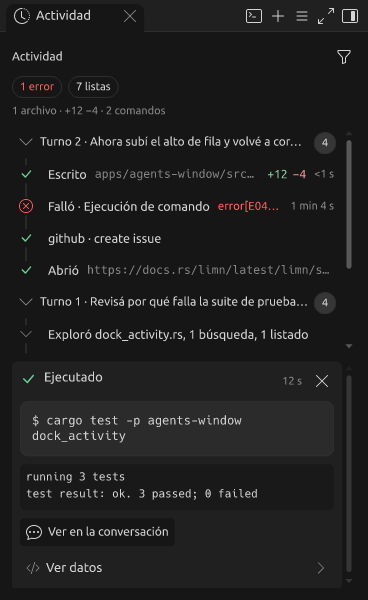
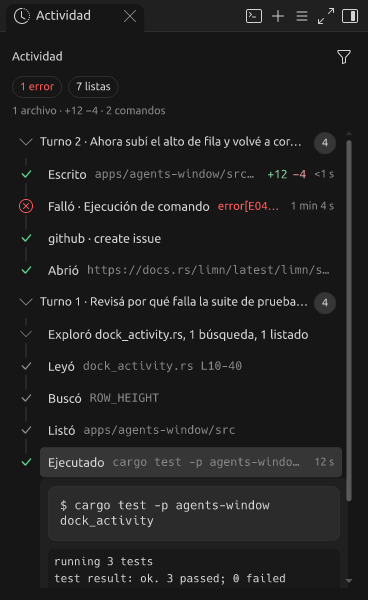
limn v0.1.31: a call's detail opens under its own line in the Activity log
The selected call's detail opens under its line on the library's spring and
closes there, with the rail running on beside it; the line is its heading,
and choosing it again closes it. The log stays virtual. A call the log does
not list keeps its detail under the log, with its own heading.

diff --git a/apps/agents-window/src/dock_activity.rs b/apps/agents-window/src/dock_activity.rs
@@ -131,6 +131,8 @@ pub(crate) struct ActivityUi {
     pub grants_open: bool,
     /// The call just jumped to in the transcript, highlighted for a moment.
     pub revealed: Option<(String, std::time::Instant)>,
+    /// The call whose detail was just closed: it closes under its line.
+    pub closing: Option<String>,
 }
 
 /// Apply the part of a `dock_activity:` action after its prefix. Returns
@@ -171,7 +173,7 @@ pub(crate) fn apply_action(state: &mut ViewState, action: &str) -> Option<String
             }
         }
         ("grants", _) => ui.grants_open = !ui.grants_open,
-        ("close", _) => state.selected_tool_id = None,
+        ("close", _) => ui.closing = state.selected_tool_id.take(),
         ("data", _) => ui.data_open = !ui.data_open,
         ("copy", _) => {
             let selected = state.selected_tool_id.as_deref()?;
@@ -383,6 +385,22 @@ fn rail(node: Element, above: bool, below: bool) -> Element {
     ])
     .gap(2.0)
     .size(Some(RAIL), Some(ROW_HEIGHT))
+}
+
+/// The rail beside what a line opened under itself: the line alone, on to
+/// the next node, or nothing where the turn ends.
+fn rail_through(shown: bool) -> Element {
+    let ink = theme::FOREGROUND_SUBTLE;
+    Element::row(vec![
+        Element::spacer().flex(1.0),
+        Element::spacer().size(Some(1.0), None).background(if shown {
+            Color::rgba(ink.r, ink.g, ink.b, ink.a / 3)
+        } else {
+            Color::TRANSPARENT
+        }),
+        Element::spacer().flex(1.0),
+    ])
+    .size(Some(RAIL), None)
 }
 
 /// One line of the timeline: its node on the rail and, beside it, what it
@@ -921,13 +939,48 @@ pub(super) fn content(state: &ViewState, width: f32, height: f32) -> Element {
     running_strip(&mut head, state, &live, &started, width);
     let rows = log_rows(state, &turns, selected, &started);
     let count = rows.len();
+    // The selected call's detail opens under its own line, and the one just
+    // closed closes there. A call the log does not list (a folded turn, a
+    // filter) shows its detail under the log instead.
+    let line = |id: &str| {
+        rows.iter().enumerate().find_map(|(position, row)| match row {
+            Row::Call { row, last, .. } if row.id == id => Some((position, *last)),
+            _ => None,
+        })
+    };
+    let opened = match (selected, state.selected_tool_id.as_deref()) {
+        (Some(index), Some(id)) => line(id).map(|at| (at, id, Some(index))),
+        _ => ui.closing.as_deref().and_then(|id| Some((line(id)?, id, None))),
+    };
+    let selected = selected.filter(|_| opened.is_none());
     if count > 0 {
-        let list =
+        let mut list =
             ScrollArea::uniform_list("dock_activity_tools", count, ROW_HEIGHT, move |index| {
                 log_row(&rows[index], width)
-            })
-            .render()
-            .top_fade(theme::BACKGROUND, 12.0);
+            });
+        if let Some(((position, last), id, index)) = opened {
+            let inner = (width - 8.0 - RAIL).max(140.0);
+            let detail = index.map(|index| {
+                Element::column(vec![
+                    Element::row(vec![
+                        // The rail runs on beside it to the next line.
+                        rail_through(!last),
+                        inset_card(
+                            detail(state, index, &state.transcript[index], inner - 16.0, false),
+                            inner,
+                        ),
+                    ]),
+                    Element::spacer().size(None, Some(6.0)),
+                ])
+            });
+            list = list.expansion(
+                position,
+                openide_ui::Collapse::new(format!("dock_activity:detail:{id}"), detail)
+                    .expand()
+                    .render(),
+            );
+        }
+        let list = list.render().top_fade(theme::BACKGROUND, 12.0);
         // With a detail under it the log keeps to its rows, up to two fifths
         // of the pane; alone it fills the pane.
         head.push(if selected.is_some() {
@@ -956,7 +1009,7 @@ pub(super) fn content(state: &ViewState, width: f32, height: f32) -> Element {
     let mut items = Vec::new();
     if let Some(index) = selected {
         items.push(inset_card(
-            detail(state, index, &state.transcript[index], width - 16.0),
+            detail(state, index, &state.transcript[index], width - 16.0, true),
             width,
         ));
     }
@@ -1157,7 +1210,15 @@ fn command_output(
 /// The selected call, shown as what it is: a command with its output, an
 /// edit with its diff, a read with what it found. The raw call stays one
 /// disclosure away.
-fn detail(state: &ViewState, index: usize, item: &TranscriptItem, width: f32) -> Element {
+/// What the selected call did, in full. Under its own line the line is its
+/// heading and closes it; under the log it brings a heading of its own.
+fn detail(
+    state: &ViewState,
+    index: usize,
+    item: &TranscriptItem,
+    width: f32,
+    heading: bool,
+) -> Element {
     let (
         Some(row),
         TranscriptItem::Tool {
@@ -1180,20 +1241,25 @@ fn detail(state: &ViewState, index: usize, item: &TranscriptItem, width: f32) ->
     } else {
         theme::FOREGROUND_SUBTLE
     };
-    let mut detail = vec![Element::row(vec![
-        status_icon(&row, false).size(Some(16.0), Some(20.0)),
-        UiText::new(&row.title, theme::component_palette())
-            .role(TextRole::Label)
-            .render()
-            .flex(1.0),
-        small(row.duration.as_deref().unwrap_or_default(), theme::FOREGROUND_SUBTLE).centered_y(),
-        UiIconButton::new("dock_activity:close", Icon::Close, theme::component_palette())
-            .variant(ButtonVariant::Ghost)
-            .size(ControlSize::Dense)
-            .tooltip("Cerrar detalle")
-            .render(),
-    ])
-    .gap(8.0)];
+    let mut detail = Vec::new();
+    if heading {
+        detail.push(
+            Element::row(vec![
+                status_icon(&row, false).size(Some(16.0), Some(20.0)),
+                UiText::new(&row.title, theme::component_palette())
+                    .role(TextRole::Label)
+                    .render()
+                    .flex(1.0),
+                small(row.duration.as_deref().unwrap_or_default(), theme::FOREGROUND_SUBTLE).centered_y(),
+                UiIconButton::new("dock_activity:close", Icon::Close, theme::component_palette())
+                    .variant(ButtonVariant::Ghost)
+                    .size(ControlSize::Dense)
+                    .tooltip("Cerrar detalle")
+                    .render(),
+            ])
+            .gap(8.0),
+        );
+    }
     let navigation = state.selected_session.as_deref().and_then(|owner| {
         Some(link(
             tool_presentation::navigation_action(owner, id),
@@ -2016,6 +2082,56 @@ mod tests {
             titles.push(title);
         }
         assert!(titles[0] < titles[1], "{titles:?}");
+    }
+
+    #[test]
+    fn the_selected_calls_detail_opens_under_its_line_and_closes_there() {
+        let mut state = review_state();
+        let top = |frame: &openide_ui::Frame, id: &str| {
+            frame
+                .regions
+                .iter()
+                .find(|region| region.id == id)
+                .unwrap_or_else(|| panic!("missing {id}"))
+                .rect
+        };
+        let closed = frame(&state);
+        let apart = top(&closed, "tool:mcp-1").y - top(&closed, "tool:cmd-2").y;
+        assert_eq!(apart, ROW_HEIGHT);
+
+        state.selected_tool_id = Some("cmd-2".into());
+        let open = frame(&state);
+        let (line, close, next) = (
+            top(&open, "tool:cmd-2"),
+            top(&open, "dock_activity:data"),
+            top(&open, "tool:mcp-1"),
+        );
+        // Its line is its heading: it brings no second one, nor a close button.
+        assert!(!open.regions.iter().any(|region| region.id == "dock_activity:close"));
+        assert_eq!(visible(&open).matches("Falló · Ejecución de comando").count(), 1);
+        // Between its own line and the next one, inside the log, beside the rail.
+        assert!(line.y + line.height <= close.y && close.y + close.height <= next.y, "{line:?} {close:?} {next:?}");
+        let log = top(&open, "dock_activity_tools");
+        assert!(log.y <= close.y && close.y + close.height <= log.y + log.height);
+        assert!(close.x > line.x + RAIL);
+        assert!(next.y - line.y > ROW_HEIGHT + 60.0, "the lines after it move down");
+        // Nothing else holds a detail: the log has the pane to itself.
+        assert!(!open.regions.iter().any(|region| region.id == "side_pane_activity"));
+
+        // Closed, it closes where it was open.
+        apply_action(&mut state, "close");
+        assert_eq!((state.selected_tool_id.as_deref(), state.activity.closing.as_deref()), (None, Some("cmd-2")));
+        let closed = frame(&state);
+        assert_eq!(top(&closed, "tool:mcp-1").y - top(&closed, "tool:cmd-2").y, ROW_HEIGHT);
+        assert!(!closed.regions.iter().any(|region| region.id == "dock_activity:data"));
+
+        // A call the log does not list keeps its detail under the log.
+        state.selected_tool_id = Some("edit-1".into());
+        state.activity.status = Some(StatusFilter::Errors);
+        let filtered = frame(&state);
+        assert_eq!(rows(&filtered), ["tool:cmd-2"]);
+        let (log, close) = (top(&filtered, "dock_activity_tools"), top(&filtered, "dock_activity:close"));
+        assert!(close.y >= log.y + log.height, "{log:?} {close:?}");
     }
 
     #[test]

diff --git a/apps/agents-window/src/app.rs b/apps/agents-window/src/app.rs
@@ -8955,12 +8955,12 @@ impl AgentsWindow {
     }
 
     /// Open Activity on one tool call. A row of the list `toggles` its own
-    /// selection off again in a narrow window.
+    /// detail closed again, as the heading of what it opened.
     fn show_tool_activity(&mut self, tool_id: &str, toggles: bool) {
         self.view.selected_tool_id = if toggles
-            && self.viewport_width < 800.0
             && self.view.selected_tool_id.as_deref() == Some(tool_id)
         {
+            self.view.activity.closing = Some(tool_id.to_owned());
             None
         } else {
             Some(tool_id.to_owned())

diff --git a/docs/right-dock.md b/docs/right-dock.md
@@ -295,10 +295,14 @@ pasos de una exploración, que se distinguen por su nodo apagado. Una llamada
 que falló dice el motivo donde iría su destino; el destino queda en el
 tooltip. Una llamada sobre un comando iniciado antes nombra ese comando, no
 el identificador de su sesión. El encabezado de cada turno lleva su cantidad
-de llamadas al final de la línea, y su título se acorta antes que ella. El
-detalle de la llamada elegida sigue bajo el registro: la lista es virtual y
-de paso fijo, y abrirlo debajo de su línea necesita una lista virtual de
-alturas variables que limn todavía no tiene.
+de llamadas al final de la línea, y su título se acorta antes que ella.
+
+El detalle de la llamada elegida se abre debajo de su propia línea, con el
+resorte de limn, y el riel sigue a su lado hasta la línea siguiente. La línea
+es su encabezado: volver a elegirla lo cierra, en el mismo lugar. La lista
+sigue siendo virtual (`ScrollArea::uniform_list(…).expansion(…)`, limn
+v0.1.31). Una llamada que el registro no lista, por un turno plegado o un
+filtro, muestra su detalle bajo el registro, con encabezado y cierre propios.
 
 ## Navegador
 
